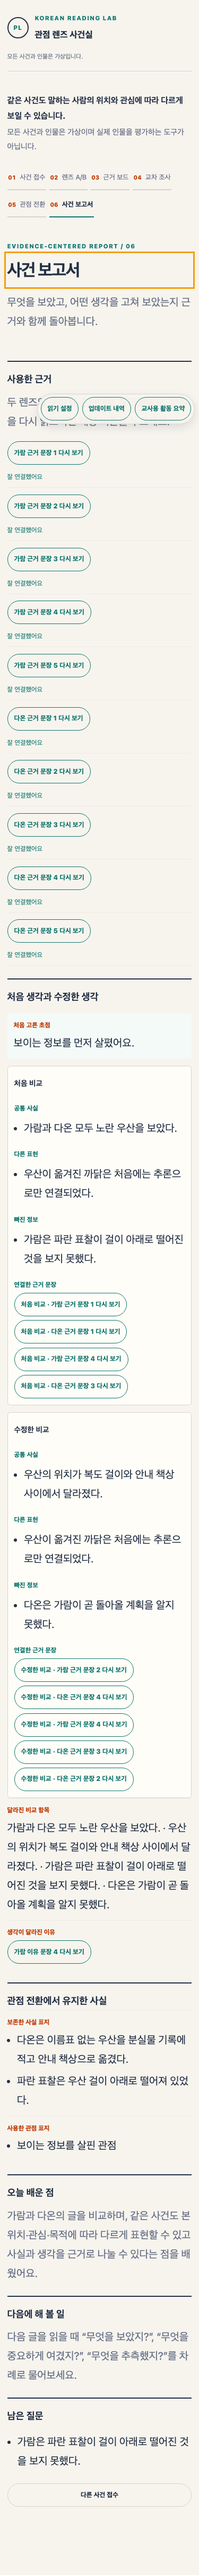
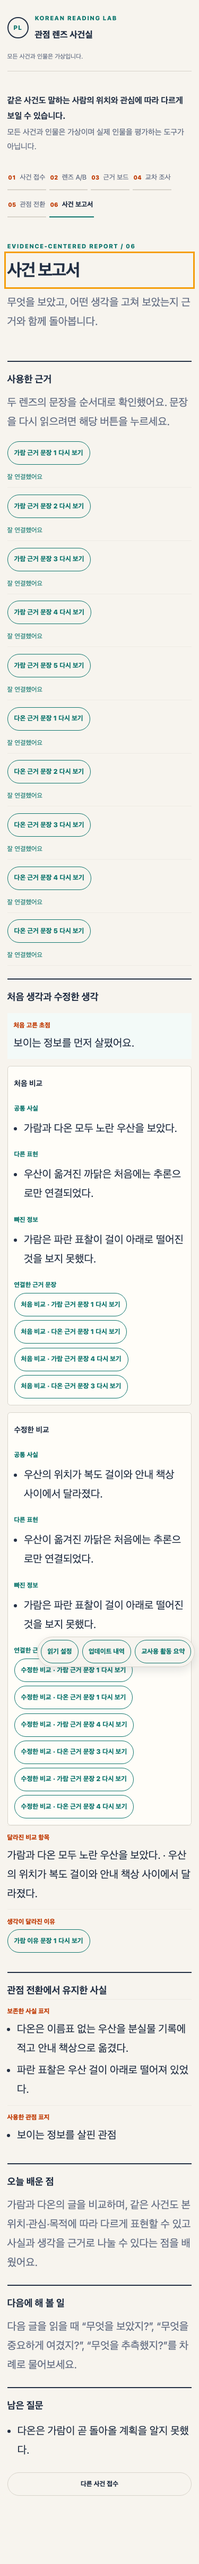
test: verify elementary learner improvements

diff --git a/tests/e2e/evidence-capture.spec.ts b/tests/e2e/evidence-capture.spec.ts
@@ -1,6 +1,7 @@
 import { mkdirSync } from 'node:fs';
 import { expect, test, type Locator, type Page } from '@playwright/test';
 import { casePacks } from '../../src/content/caseIndex';
+import { sentenceReference } from '../../src/content/learnerLabels';
 import type { EvidenceCategory } from '../../src/model/case';
 
 const pack = casePacks.find((item) => item.id === 'missing-umbrella-tag')!;
@@ -38,10 +39,14 @@ async function startEvidence(page: Page) {
   await press(page.getByRole('radio', { name: /보이는 정보/ }), 'Space');
   await press(page.getByRole('button', { name: '사건 렌즈 열기', exact: true }));
   const tabs = page.getByRole('tab');
-  await press(page.getByRole('button', { name: '읽음 표시', exact: true }).nth(0));
+  const firstRead = page.getByRole('button', { name: '읽음 표시', exact: true }).nth(0);
+  await press(firstRead);
+  await expect(page.getByRole('button', { name: '읽음 취소', exact: true })).toBeVisible();
   await press(tabs.nth(1));
   await press(page.getByRole('button', { name: '읽음 표시', exact: true }).nth(0));
-  await press(page.getByRole('button', { name: '중요 문장 표시', exact: true }).nth(0));
+  const firstImportant = page.getByRole('button', { name: '중요 문장 표시', exact: true }).nth(0);
+  await press(firstImportant);
+  await expect(page.getByRole('button', { name: '중요 표시 취소', exact: true })).toBeVisible();
   await press(tabs.nth(0));
   await press(page.getByRole('button', { name: '중요 문장 표시', exact: true }).nth(0));
   await press(page.getByRole('button', { name: '근거 보드로 이동', exact: true }));
@@ -49,7 +54,7 @@ async function startEvidence(page: Page) {
 
 async function selectClassification(page: Page, index: number) {
   const sentence = pack.narrators.flatMap((narrator) => narrator.sentences)[index]!;
-  await press(page.getByRole('button', { name: /^문장 \d+/ }).nth(index));
+  await press(page.getByRole('button', { name: sentenceReference(pack, sentence.id), exact: true }));
   for (const category of [...new Set(sentence.acceptedCategorySets[0] ?? [])]) await press(page.getByRole('button', { name: categoryLabels[category], exact: true }));
   if (sentence.kind === 'mixed') {
     const segments = page.getByRole('checkbox');
@@ -80,7 +85,9 @@ async function completeComparisonAndRewrite(page: Page) {
     return { groupName, option };
   });
   for (const { groupName, option } of chosen) await press(page.getByRole('group', { name: groupName }).getByRole('checkbox', { name: option.label, exact: true }), 'Space');
-  for (const sentenceId of new Set(chosen.flatMap(({ option }) => option.evidenceSentenceIds))) await press(page.getByRole('checkbox', { name: new RegExp(`근거 문장.*${sentenceId}`) }), 'Space');
+  for (const sentenceId of new Set(chosen.flatMap(({ option }) => option.evidenceSentenceIds))) {
+    await press(page.getByRole('checkbox', { name: new RegExp(`근거 문장.*${sentenceReference(pack, sentenceId)}`) }), 'Space');
+  }
   await press(page.getByRole('button', { name: '비교 완료', exact: true }));
   await press(page.getByRole('button', { name: '추가 기록 열기', exact: true }));
 
@@ -89,10 +96,10 @@ async function completeComparisonAndRewrite(page: Page) {
   await press(shared.getByRole('checkbox', { name: chosen[0]!.option.label, exact: true }), 'Space');
   await press(shared.getByRole('checkbox', { name: changed.label, exact: true }), 'Space');
   for (const sentenceId of new Set(changed.evidenceSentenceIds)) {
-    const checkbox = page.getByRole('checkbox', { name: new RegExp(`근거 문장.*${sentenceId}`) });
+    const checkbox = page.getByRole('checkbox', { name: new RegExp(`근거 문장.*${sentenceReference(pack, sentenceId)}`) });
     if (!(await checkbox.isChecked())) await press(checkbox, 'Space');
   }
-  await press(page.getByRole('checkbox', { name: new RegExp(`이유 문장.*${pack.narrators[0].sentences[0]!.id}`) }), 'Space');
+  await press(page.getByRole('checkbox', { name: new RegExp(`이유 문장.*${sentenceReference(pack, pack.narrators[0].sentences[0]!.id)}`) }), 'Space');
   await press(page.getByRole('button', { name: '수정 비교 완료', exact: true }));
   await press(page.getByRole('button', { name: '관점 전환 시작', exact: true }));
 
@@ -100,7 +107,11 @@ async function completeComparisonAndRewrite(page: Page) {
   await press(page.getByRole('radio', { name: pack.narrators.find((lens) => lens.id === rule.targetNarratorId)!.displayName }), 'Space');
   await press(page.getByRole('radio', { name: audiences[rule.audienceId] }), 'Space');
   await press(page.getByRole('radio', { name: purposes[rule.purposeId] }), 'Space');
-  for (const blockId of rule.acceptedExampleBlockSets[0] ?? []) await press(page.getByRole('button', { name: new RegExp(`블록 넣기.*${blockId}`) }));
+  for (const blockId of rule.acceptedExampleBlockSets[0] ?? []) {
+    const block = pack.rewriteBlocks.find((item) => item.id === blockId);
+    if (!block) throw new Error(`No rewrite block ${blockId}`);
+    await press(page.locator('.rewrite-block').filter({ hasText: block.text }).getByRole('button', { name: /^블록 넣기/ }));
+  }
   await press(page.getByRole('button', { name: '관점 전환 완료', exact: true }));
 }
 
@@ -112,9 +123,11 @@ test('captures the three learner stages and reduced-motion current action', asyn
   await press(page.getByRole('button', { name: '사건 렌즈 열기', exact: true }));
   const tabs = page.getByRole('tab');
   await press(page.getByRole('button', { name: '읽음 표시', exact: true }).nth(0));
+  await expect(page.getByRole('button', { name: '읽음 취소', exact: true })).toBeVisible();
   await press(tabs.nth(1));
   await press(page.getByRole('button', { name: '읽음 표시', exact: true }).nth(0));
   await press(page.getByRole('button', { name: '중요 문장 표시', exact: true }).nth(0));
+  await expect(page.getByRole('button', { name: '중요 표시 취소', exact: true })).toBeVisible();
   await press(tabs.nth(0));
   await press(page.getByRole('button', { name: '중요 문장 표시', exact: true }).nth(0));
   await press(page.getByRole('button', { name: '근거 보드로 이동', exact: true }));
@@ -122,6 +135,10 @@ test('captures the three learner stages and reduced-motion current action', asyn
   await captureEvidence(page, '근거 보드', 'docs/qa/evidence/375-evidence.png');
   await completeAllEvidence(page, 1);
   await completeComparisonAndRewrite(page);
+  for (const heading of ['오늘 배운 점', '다음에 해 볼 일']) {
+    await expect(page.getByRole('heading', { name: heading })).toBeVisible();
+  }
+  await expect(page.locator('main')).not.toContainText(/\b(?:mut|psb|cna|lws)-[a-z0-9-]+\b/);
   await captureEvidence(page, '사건 보고서', 'docs/qa/evidence/375-report.png');
   await expect(page.locator('.gi-pulse')).toHaveCount(0);
 

diff --git a/tests/e2e/accessibility.spec.ts b/tests/e2e/accessibility.spec.ts
@@ -52,10 +52,9 @@ async function selectComparison(page: Page) {
 
 async function completeEvidence(page: Page, startIndex = 0) {
   const sentences = pack.narrators.flatMap((narrator) => narrator.sentences);
-  const sentenceButtons = page.getByRole('button', { name: /문장 \d+$/ });
   for (const [index, sentence] of sentences.entries()) {
     if (index < startIndex) continue;
-    await key(sentenceButtons.nth(index));
+    await key(page.getByRole('button', { name: sentenceReference(pack, sentence.id), exact: true }));
     for (const category of [...new Set(sentence.acceptedCategorySets[0] ?? [])]) await key(page.getByRole('button', { name: categories[category], exact: true }));
     if (sentence.kind === 'mixed') {
       const segments = page.getByRole('checkbox');
@@ -100,7 +99,7 @@ test('axe, semantics, tabs, announcements, and dialogs cover the full learner pa
 
   await assertStage(page, '근거 보드');
   await noSeriousAxe(page);
-  const firstSentence = page.getByRole('button', { name: /문장 1$/ }).first();
+  const firstSentence = page.getByRole('button', { name: sentenceReference(pack, pack.narrators[0].sentences[0]!.id), exact: true });
   await expect(firstSentence).toHaveAttribute('aria-pressed', 'false');
   await key(firstSentence);
   await expect(firstSentence).toHaveAttribute('aria-pressed', 'true');
@@ -142,7 +141,11 @@ test('axe, semantics, tabs, announcements, and dialogs cover the full learner pa
   await key(page.getByRole('radio', { name: pack.narrators.find((lens) => lens.id === rule.targetNarratorId)!.displayName }), 'Space');
   await key(page.getByRole('radio', { name: audiences[rule.audienceId] }), 'Space');
   await key(page.getByRole('radio', { name: purposes[rule.purposeId] }), 'Space');
-  for (const blockId of rule.acceptedExampleBlockSets[0] ?? []) await key(page.getByRole('button', { name: new RegExp(`블록 넣기.*${blockId}`) }));
+  for (const blockId of rule.acceptedExampleBlockSets[0] ?? []) {
+    const block = pack.rewriteBlocks.find((item) => item.id === blockId);
+    if (!block) throw new Error(`No rewrite block ${blockId}`);
+    await key(page.locator('.rewrite-block').filter({ hasText: block.text }).getByRole('button', { name: /^블록 넣기/ }));
+  }
   await key(page.getByRole('button', { name: '관점 전환 완료', exact: true }));
   await assertStage(page, '사건 보고서');
   await noSeriousAxe(page);
@@ -150,6 +153,7 @@ test('axe, semantics, tabs, announcements, and dialogs cover the full learner pa
   await expect(page.getByRole('heading', { name: '다음에 해 볼 일' })).toBeVisible();
   await expect(page.getByRole('heading', { name: '오늘 배운 점' }).locator('..')).toContainText('위치·관심·목적');
   await expect(page.getByRole('heading', { name: '다음에 해 볼 일' }).locator('..')).toContainText('무엇을 추측했지?');
+  await expect(page.locator('main')).not.toContainText(/\b(?:mut|psb|cna|lws)-[a-z0-9-]+\b/);
   await expect(page.locator('.gi-pulse')).toHaveCount(0);
   await expect(page.locator('main')).not.toContainText(/점수|승자|winner|score/i);
 

diff --git a/tests/e2e/responsive-motion.spec.ts b/tests/e2e/responsive-motion.spec.ts
@@ -67,10 +67,9 @@ async function resetAndSelect(page: Page) {
 
 async function completeEvidence(page: Page, startIndex = 0) {
   const sentences = pack.narrators.flatMap((narrator) => narrator.sentences);
-  const buttons = page.getByRole('button', { name: /문장 \d+$/ });
   for (const [index, sentence] of sentences.entries()) {
     if (index < startIndex) continue;
-    await press(buttons.nth(index));
+    await press(page.getByRole('button', { name: sentenceReference(pack, sentence.id), exact: true }));
     for (const category of [...new Set(sentence.acceptedCategorySets[0] ?? [])]) await press(page.getByRole('button', { name: categories[category], exact: true }));
     if (sentence.kind === 'mixed') {
       const segments = page.getByRole('checkbox');
@@ -112,7 +111,11 @@ async function completeRewrite(page: Page) {
   await press(page.getByRole('radio', { name: pack.narrators.find((lens) => lens.id === rule.targetNarratorId)!.displayName }), 'Space');
   await press(page.getByRole('radio', { name: audiences[rule.audienceId] }), 'Space');
   await press(page.getByRole('radio', { name: purposes[rule.purposeId] }), 'Space');
-  for (const blockId of rule.acceptedExampleBlockSets[0] ?? []) await press(page.getByRole('button', { name: new RegExp(`블록 넣기.*${blockId}`) }));
+  for (const blockId of rule.acceptedExampleBlockSets[0] ?? []) {
+    const block = pack.rewriteBlocks.find((item) => item.id === blockId);
+    if (!block) throw new Error(`No rewrite block ${blockId}`);
+    await press(page.locator('.rewrite-block').filter({ hasText: block.text }).getByRole('button', { name: /^블록 넣기/ }));
+  }
   await press(page.getByRole('button', { name: '관점 전환 완료', exact: true }));
 }
 
@@ -147,8 +150,9 @@ test('375px portrait and 640px CSS viewport reflow keep controls usable', async 
     await page.setViewportSize({ width, height: 812 });
     await driveFlow(page, async () => {
       await assertNoOverflow(page);
-      if (width === 375) await assertHitTargets(page);
+      await assertHitTargets(page);
       await assertUtilityDoesNotCoverCurrentAction(page);
+      await expect.poll(() => page.locator('.gi-pulse').count()).toBeLessThanOrEqual(1);
     });
   }
   await page.setViewportSize({ width: 375, height: 812 });
@@ -179,7 +183,7 @@ test('reduced motion replaces every required-action aura with static guidance', 
   await assertReducedAction(page, '근거 보드로 이동');
   await press(page.getByRole('button', { name: '근거 보드로 이동', exact: true }));
   const first = pack.narrators[0].sentences[0]!;
-  await press(page.getByRole('button', { name: /문장 1$/ }).first());
+  await press(page.getByRole('button', { name: sentenceReference(pack, first.id), exact: true }));
   for (const category of [...new Set(first.acceptedCategorySets[0] ?? [])]) await press(page.getByRole('button', { name: categories[category], exact: true }));
   await assertReducedAction(page, '근거 표시하기');
   await press(page.getByRole('button', { name: '근거 표시하기', exact: true }));

diff --git a/tests/e2e/privacy-print.spec.ts b/tests/e2e/privacy-print.spec.ts
@@ -29,9 +29,8 @@ async function reachRewrite(page: Page) {
   await press(page.getByRole('button', { name: '중요 문장 표시', exact: true }).nth(pack.narrators[0].sentences.length - 1));
   await press(page.getByRole('button', { name: '근거 보드로 이동', exact: true }));
   const sentences = pack.narrators.flatMap((narrator) => narrator.sentences);
-  const sentenceButtons = page.getByRole('button', { name: /문장 \d+$/ });
-  for (const [index, sentence] of sentences.entries()) {
-    await press(sentenceButtons.nth(index));
+  for (const sentence of sentences) {
+    await press(page.getByRole('button', { name: sentenceReference(pack, sentence.id), exact: true }));
     for (const category of [...new Set(sentence.acceptedCategorySets[0] ?? [])]) await press(page.getByRole('button', { name: categoryLabels[category], exact: true }));
     if (sentence.kind === 'mixed') {
       const segments = page.getByRole('checkbox');
@@ -72,7 +71,11 @@ async function completeReport(page: Page) {
   await press(page.getByRole('radio', { name: pack.narrators.find((lens) => lens.id === rule.targetNarratorId)!.displayName }), 'Space');
   await press(page.getByRole('radio', { name: audiences[rule.audienceId] }), 'Space');
   await press(page.getByRole('radio', { name: purposes[rule.purposeId] }), 'Space');
-  for (const blockId of rule.acceptedExampleBlockSets[0] ?? []) await press(page.getByRole('button', { name: new RegExp(`블록 넣기.*${blockId}`) }));
+  for (const blockId of rule.acceptedExampleBlockSets[0] ?? []) {
+    const block = pack.rewriteBlocks.find((item) => item.id === blockId);
+    if (!block) throw new Error(`No rewrite block ${blockId}`);
+    await press(page.locator('.rewrite-block').filter({ hasText: block.text }).getByRole('button', { name: /^블록 넣기/ }));
+  }
   await press(page.getByRole('button', { name: '관점 전환 완료', exact: true }));
   await expect(page.getByRole('heading', { name: '사건 보고서' })).toBeVisible();
 }
@@ -111,7 +114,7 @@ test('keeps requests local and storage within the three-key privacy whitelist', 
   expect(keyState.local).toEqual([]);
   for (const request of requests) {
     const url = new URL(request.url);
-    expect(url.origin).toBe(BASE_ORIGIN);
+    expect(url.origin).toBe(new URL(page.url()).origin);
     expect(request.resourceType).not.toBe('websocket');
     expect(request.url).not.toMatch(/analytics|collect|api\/|fonts?|google|sentry/i);
   }
@@ -131,4 +134,5 @@ test('print media hides controls and exposes teacher guide, both lenses, and com
   await expect(page.locator('.progress')).toBeHidden();
   await expect(page.locator('.utility-group')).toBeHidden();
   await expect(page.locator('[data-print-region] button')).toHaveCount(0);
+  await expect(page.locator('button:visible, input:visible, textarea:visible, select:visible')).toHaveCount(0);
 });

diff --git a/tests/e2e/learner-flow.spec.ts b/tests/e2e/learner-flow.spec.ts
@@ -51,10 +51,10 @@ async function selectRadio(page: Page, name: string | RegExp) {
 
 export async function completeEvidenceWithKeyboard(page: Page, pack: CasePack) {
   const allSentences = pack.narrators.flatMap((narrator) => narrator.sentences);
-  const sentenceButtons = page.getByRole('button', { name: /문장 \d+$/ });
+  const sentenceButtons = page.getByRole('button', { name: /^.+ 문장 \d+$/ });
   await expect(sentenceButtons).toHaveCount(allSentences.length);
-  for (const [index, sentence] of allSentences.entries()) {
-    await press(sentenceButtons.nth(index));
+  for (const sentence of allSentences) {
+    await press(page.getByRole('button', { name: sentenceReference(pack, sentence.id), exact: true }));
     for (const category of [...new Set(sentence.acceptedCategorySets[0] ?? [])]) {
       await press(page.getByRole('button', { name: categoryLabels[category], exact: true }));
     }
@@ -211,7 +211,9 @@ export async function completeCaseWithKeyboard(page: Page, caseId: CaseId) {
   await selectRadio(page, audienceLabels[rule.audienceId]);
   await selectRadio(page, purposeLabels[rule.purposeId]);
   for (const blockId of rule.acceptedExampleBlockSets[0] ?? []) {
-    await press(page.getByRole('button', { name: new RegExp(`블록 넣기.*${blockId}`) }));
+    const block = pack.rewriteBlocks.find((item) => item.id === blockId);
+    if (!block) throw new Error(`No rewrite block ${blockId}`);
+    await press(page.locator('.rewrite-block').filter({ hasText: block.text }).getByRole('button', { name: /^블록 넣기/ }));
   }
   const rewriteProceed = page.getByRole('button', { name: '관점 전환 완료', exact: true });
   await expect(rewriteProceed).toHaveClass(/gi-pulse/);
@@ -224,6 +226,7 @@ export async function completeCaseWithKeyboard(page: Page, caseId: CaseId) {
   }
   await expect(page.getByRole('heading', { name: '오늘 배운 점' }).locator('..')).toContainText('위치·관심·목적');
   await expect(page.getByRole('heading', { name: '다음에 해 볼 일' }).locator('..')).toContainText('무엇을 추측했지?');
+  await expect(page.locator('main')).not.toContainText(/\b(?:mut|psb|cna|lws)-[a-z0-9-]+\b/);
   await expect(page.locator('.gi-pulse')).toHaveCount(0);
   await expect(page.locator('main')).not.toContainText(/점수|승자|정답 점수|score|winner/i);
 

diff --git a/src/test/releaseReadiness.test.ts b/src/test/releaseReadiness.test.ts
@@ -48,6 +48,11 @@ describe('local release-readiness packet', () => {
     }
     expect(readme).toMatch(/중립 기록은 처음 비교를 저장하기 전까지 숨겨져/);
     expect(readme).toMatch(/점수 없이.*사실.*이유 문장|사실.*이유 문장.*점수 없이/s);
+    expect(readme).toContain('최종 통합 품질 게이트');
+    expect(readme).toContain('git diff --check');
+    expect(readme).toContain('오늘 배운 점');
+    expect(readme).toContain('다음에 해 볼 일');
+    expect(readme).toContain('내부 사건 ID');
   });
 
   it('records twelve concrete manual accessibility checks with a literal environment', () => {

diff --git a/README.md b/README.md
@@ -68,6 +68,12 @@ npm ci
 - `docs/qa/evidence/375-report.png`
 - `docs/qa/evidence/reduced-motion-current-action.png`
 
+## 최종 통합 품질 게이트
+
+2026-08-28 통합 확인은 `npm test`, `npm run typecheck`, `npm run lint`, `npm run lint:filesize`, `npm run build`, `npx playwright test`, `git diff --check` 순서로 실행합니다. 브라우저 게이트는 네 허구 사건의 keyboard-only 완료 흐름, `오늘 배운 점`·`다음에 해 볼 일` 보고서, 문장 재방문 초점, 375px·640px 무수평스크롤, 44px 조작 영역, reduced motion 안내, 로컬 요청·저장 경계를 함께 확인합니다. 완료 보고서에는 점수·승자·정답률과 내부 사건 ID를 표시하지 않습니다.
+
+검증 산출물은 `docs/qa/evidence/375-report.png`에 저장하며, 375×812 CSS 뷰포트에서 두 학습 요약 섹션이 읽히고 가로로 잘리지 않는지 확인합니다. 이 통합 게이트는 별도의 커밋·푸시·GitHub Pages 배포 승인과 분리되어 있습니다.
+
 ## 업데이트 내역 유지 방법
 
 화면의 `업데이트 내역` 버튼과 `src/content/updateHistory.ts`를 함께 갱신합니다. 개선이 실제로 확인된 날짜를 `YYYY-MM-DD` 형식의 literal 날짜로 새 `개선` 행에 기록하고, 최신 행을 배열 앞에 둡니다. 요약에는 변경한 학습 흐름이나 접근성 범위를 짧게 적고, `src/content/updateHistory.test.ts`에 날짜·순서·정확한 요약 계약을 함께 갱신합니다. 계획 또는 예정 작업을 완료 내역으로 기록하지 않습니다.
